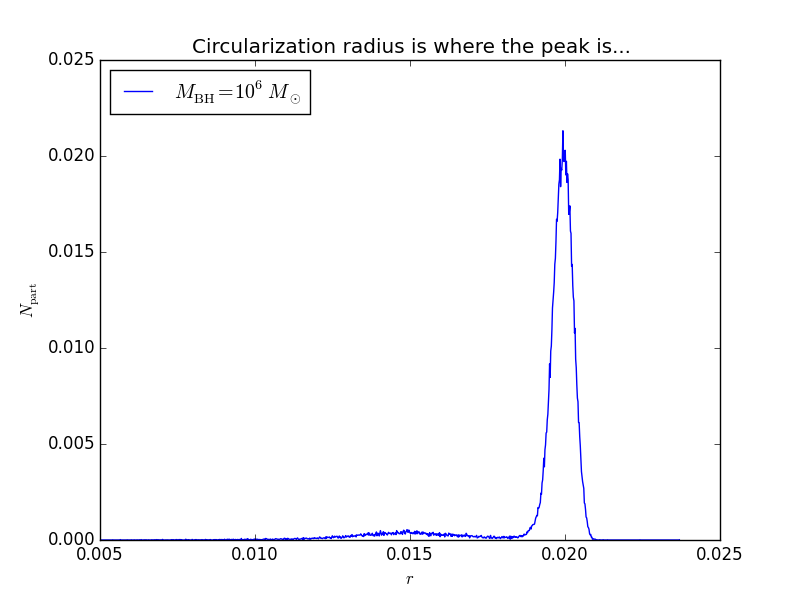
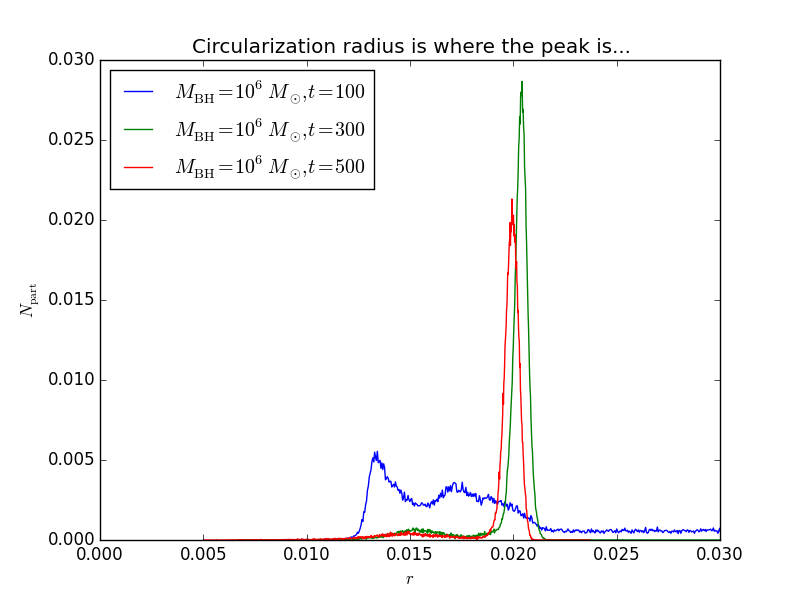
plot with radius histograms for M6 that show rcirc

diff --git a/1-SanityCheck/Fix_v/RcircCalc/Particles2Bins/plot_histograms.py b/1-SanityCheck/Fix_v/RcircCalc/Particles2Bins/plot_histograms.py
@@ -13,16 +13,17 @@ def load_data(filename):
 			all_lines.append(line_data)
 	return all_lines
 
-datafile = "./M6_r_l_histogram.txt"
-X = np.array(load_data(datafile))
-label_this="$M_{\\rm BH} = 10^6 M_{\\odot}$"
-imgplot = pl.plot(X[:,0], X[:,1],  label = label_this)
+for i in [1,3,5]:
+	datafile = "./M6_r_l_histogram_t"+str(i)+"00.txt"
+	X = np.array(load_data(datafile))
+	label_this="$M_{\\rm BH} = 10^6 M_{\\odot}, t = "+str(i)+"00$"
+	imgplot = pl.plot(X[:,0], X[:,1],  label = label_this)
 
 pl.legend(loc=2)
 pl.xlabel("$r$")
 pl.ylabel("$N_{\\rm part}$")
-#pl.xlim([0,2000])
-#pl.ylim([0,30])
+pl.xlim([0,0.03])
+#pl.ylim([0,0.30])
 pl.title("Circularization radius is where the peak is..." )
 figfile = "Rcirc.png"
 pl.savefig(figfile)
